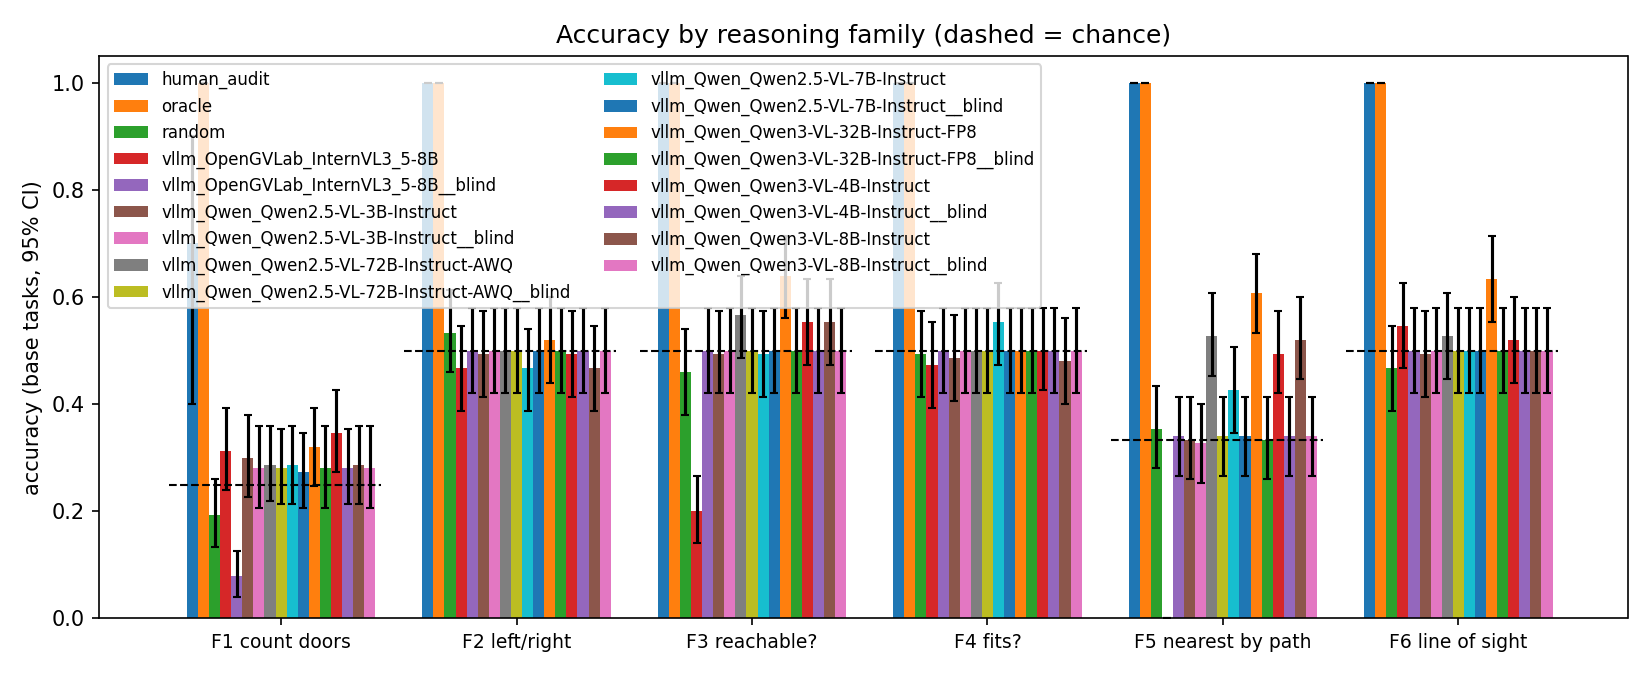
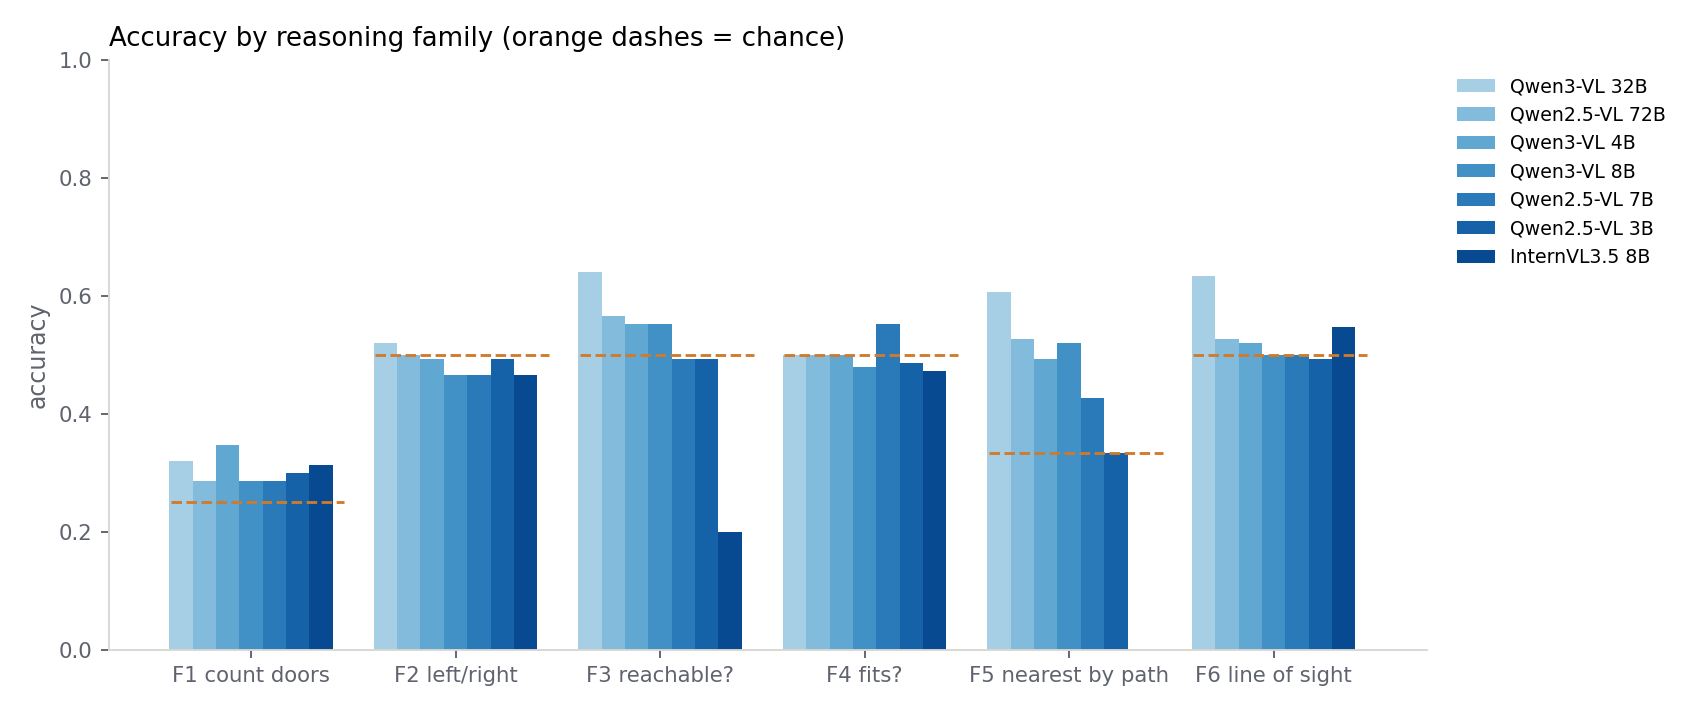
README: embed examples and charts, clickable links; cleaner figures; balanced subset option

diff --git a/navprobe/report.py b/navprobe/report.py
@@ -128,61 +128,122 @@ def chance_by_family(tasks):
             for f in FAMILY_LABEL if any(t["family"] == f for t in tasks)}
 
 
+INK, GREY, BLUE, ORANGE, TEAL, LIGHT = "#222736", "#5F636E", "#3D6DC4", "#D07A2A", "#009696", "#D9D7D1"
+
+
+def pretty(m: str) -> str:
+    """'vllm_Qwen_Qwen3-VL-32B-Instruct-FP8' -> 'Qwen3-VL 32B'"""
+    if m == "human_audit":
+        return "Human (60-task audit)"
+    if m == "random":
+        return "Random guessing"
+    n = m.replace("vllm_", "").replace("hf_", "").replace("gemini_", "")
+    n = re.sub(r"^(Qwen|OpenGVLab|google)_", "", n)
+    n = re.sub(r"-(Instruct|AWQ|FP8)", "", n).replace("_", ".")
+    n = re.sub(r"-(\d+B)$", r" \1", n)
+    return n
+
+
+def _style(ax):
+    for side in ("top", "right"):
+        ax.spines[side].set_visible(False)
+    ax.spines["left"].set_color(LIGHT)
+    ax.spines["bottom"].set_color(LIGHT)
+    ax.tick_params(colors=GREY, labelsize=9)
+    ax.title.set_color(INK)
+
+
 def make_figures(summaries, chance, fig_dir: Path):
+    """Clean figures for the README and slides: real models plus human and random; no blind/oracle rows."""
     import matplotlib
     matplotlib.use("Agg")
     import matplotlib.pyplot as plt
 
     fig_dir.mkdir(parents=True, exist_ok=True)
-    models = list(summaries)
     fams = [f for f in FAMILY_LABEL if f in chance]
-    # 1. accuracy by family
-    fig, ax = plt.subplots(figsize=(11, 4.5))
+    models = [m for m in summaries if m not in ("oracle", "random", "human_audit") and not m.endswith("__blind")]
+    models.sort(key=lambda m: -summaries[m]["accuracy"])
+
+    # 1. headline: human vs models vs random
+    rows = (["human_audit"] if "human_audit" in summaries else []) + models + ["random"]
+    fig, ax = plt.subplots(figsize=(7.5, 0.42 * len(rows) + 0.9))
+    ys = np.arange(len(rows))[::-1]
+    vals = [summaries[m]["accuracy"] for m in rows]
+    cols = [TEAL if m == "human_audit" else (LIGHT if m == "random" else BLUE) for m in rows]
+    ax.barh(ys, vals, color=cols, height=0.62)
+    for y, v in zip(ys, vals):
+        ax.text(v + 0.01, y, f"{v:.0%}", va="center", fontsize=9, color=INK)
+    ax.set_yticks(ys)
+    ax.set_yticklabels([pretty(m) for m in rows], fontsize=9, color=INK)
+    ax.set_xlim(0, 1.08)
+    ax.xaxis.set_visible(False)
+    ax.set_title("Accuracy on 1,407 verified map-reading tasks", fontsize=11, loc="left")
+    _style(ax)
+    fig.tight_layout()
+    fig.savefig(fig_dir / "accuracy_overall.png", dpi=170)
+    plt.close(fig)
+
+    # 2. accuracy by family (models only, chance marked)
+    fig, ax = plt.subplots(figsize=(10, 4.2))
     w = 0.8 / max(len(models), 1)
+    palette = plt.cm.Blues(np.linspace(0.35, 0.9, len(models)))
     for i, m in enumerate(models):
-        ys = [summaries[m]["by_family"].get(f, {}).get("acc", np.nan) for f in fams]
-        lo = [ys[j] - summaries[m]["by_family"].get(f, {}).get("ci95", (np.nan,) * 2)[0] for j, f in enumerate(fams)]
-        hi = [summaries[m]["by_family"].get(f, {}).get("ci95", (np.nan,) * 2)[1] - ys[j] for j, f in enumerate(fams)]
-        ax.bar(np.arange(len(fams)) + i * w, ys, w, yerr=[lo, hi], capsize=2, label=m)
+        ys_ = [summaries[m]["by_family"].get(f, {}).get("acc", np.nan) for f in fams]
+        ax.bar(np.arange(len(fams)) + i * w, ys_, w, label=pretty(m), color=palette[i])
     for j, f in enumerate(fams):
-        ax.hlines(chance[f], j - 0.1, j + 0.8, colors="k", linestyles="dashed", linewidth=1)
+        ax.hlines(chance[f], j - 0.05, j + 0.8, colors=ORANGE, linestyles="dashed", linewidth=1.2)
     ax.set_xticks(np.arange(len(fams)) + 0.4 - w / 2)
-    ax.set_xticklabels([FAMILY_LABEL[f] for f in fams], fontsize=9)
-    ax.set_ylim(0, 1.05)
-    ax.set_ylabel("accuracy (base tasks, 95% CI)")
-    ax.set_title("Accuracy by reasoning family (dashed = chance)")
-    ax.legend(fontsize=8, ncol=2)
+    ax.set_xticklabels([FAMILY_LABEL[f] for f in fams], fontsize=9, color=INK)
+    ax.set_ylim(0, 1.0)
+    ax.set_ylabel("accuracy", color=GREY)
+    ax.set_title("Accuracy by reasoning family (orange dashes = chance)", fontsize=11, loc="left")
+    ax.legend(fontsize=8, ncol=1, frameon=False, bbox_to_anchor=(1.01, 1), loc="upper left")
+    _style(ax)
     fig.tight_layout()
-    fig.savefig(fig_dir / "accuracy_by_family.png", dpi=150)
+    fig.savefig(fig_dir / "accuracy_by_family.png", dpi=170)
     plt.close(fig)
-    # 2. accuracy vs map size
-    fig, ax = plt.subplots(figsize=(6, 4))
-    for m in models:
+
+    # 3. accuracy vs map size
+    fig, ax = plt.subplots(figsize=(7, 3.8))
+    for i, m in enumerate(models):
         s = summaries[m]["by_size"]
-        ax.plot([int(k) for k in s], list(s.values()), marker="o", label=m)
-    ax.set_xlabel("map size (cells per side)")
-    ax.set_ylabel("accuracy")
-    ax.set_ylim(0, 1.05)
-    ax.set_title("Accuracy as maps get larger")
-    ax.legend(fontsize=8)
+        ax.plot([int(k) for k in s], list(s.values()), marker="o", label=pretty(m), color=palette[i])
+    ax.axhline(summaries["random"]["accuracy"], color=ORANGE, linestyle="dashed", linewidth=1.2)
+    ax.set_xlabel("map size (cells per side)", color=GREY)
+    ax.set_ylim(0.2, 0.8)
+    ax.set_title("Accuracy vs map size (orange = random guessing)", fontsize=11, loc="left")
+    ax.legend(fontsize=8, frameon=False, bbox_to_anchor=(1.01, 1), loc="upper left")
+    _style(ax)
     fig.tight_layout()
-    fig.savefig(fig_dir / "accuracy_by_size.png", dpi=150)
+    fig.savefig(fig_dir / "accuracy_by_size.png", dpi=170)
     plt.close(fig)
-    # 3. F5 trap
-    ms = [m for m in models if "F5_trap" in summaries[m]]
+
+    # 4. F5 traps: eyeballing vs planning
+    ms = [m for m in models if "F5_trap" in summaries[m] and summaries[m].get("accuracy_on_answered")
+          and summaries[m]["by_family"].get("F5_nearest_by_path", {}).get("acc", 0) > 0]
+    ms.sort(key=lambda m: summaries[m]["F5_trap"]["no_trap_acc"])
     if ms:
-        fig, ax = plt.subplots(figsize=(7, 4))
+        fig, ax = plt.subplots(figsize=(8, 3.9))
         x = np.arange(len(ms))
-        ax.bar(x - 0.2, [summaries[m]["F5_trap"]["no_trap_acc"] for m in ms], 0.4, label="looks-nearest = nearest")
-        ax.bar(x + 0.2, [summaries[m]["F5_trap"]["trap_acc"] for m in ms], 0.4, label="trap: looks-nearest is wrong")
-        ax.axhline(1 / 3, color="k", linestyle="dashed", linewidth=1)
+        a = [summaries[m]["F5_trap"]["no_trap_acc"] for m in ms]
+        b = [summaries[m]["F5_trap"]["trap_acc"] for m in ms]
+        ax.bar(x - 0.2, a, 0.4, label="goal that looks nearest IS nearest", color=BLUE)
+        ax.bar(x + 0.2, b, 0.4, label="trap: goal that looks nearest is NOT", color=ORANGE)
+        for xi, (va, vb) in enumerate(zip(a, b)):
+            ax.text(xi - 0.2, va + 0.015, f"{va:.0%}", ha="center", fontsize=8, color=INK)
+            ax.text(xi + 0.2, vb + 0.015, f"{vb:.0%}", ha="center", fontsize=8, color=INK)
+        ax.axhline(1 / 3, color=GREY, linestyle="dashed", linewidth=1)
+        ax.text(-0.55, 1 / 3 - 0.045, "chance", fontsize=8, color=GREY, ha="left")
         ax.set_xticks(x)
-        ax.set_xticklabels(ms, rotation=20, ha="right", fontsize=8)
-        ax.set_ylim(0, 1.05)
-        ax.set_title("F5: do models plan, or eyeball straight-line distance?")
-        ax.legend(fontsize=8)
+        ax.set_xticklabels([pretty(m) for m in ms], fontsize=9, color=INK)
+        ax.set_ylim(0, 1.0)
+        ax.yaxis.set_visible(False)
+        ax.set_title("Nearest-goal questions: models eyeball distance, they don't plan routes",
+                     fontsize=11, loc="left")
+        ax.legend(fontsize=8, frameon=False, loc="upper left")
+        _style(ax)
         fig.tight_layout()
-        fig.savefig(fig_dir / "f5_trap.png", dpi=150)
+        fig.savefig(fig_dir / "f5_trap.png", dpi=170)
         plt.close(fig)
 
 

diff --git a/navprobe/evaluate.py b/navprobe/evaluate.py
@@ -164,6 +164,22 @@ def make_agent(spec: str):
     raise SystemExit(f"unknown model spec {spec!r}")
 
 
+def balanced_subset(tasks, per_family):
+    """Deterministic subset of base tasks: per family, round-robin over (answer, trap) groups so the
+    subset keeps balanced answers and the F5 trap split. Used for rate-limited APIs (e.g. a free tier)."""
+    import itertools
+    base = sorted((t for t in tasks if not t.get("pair_role") and not t.get("twin_role")), key=lambda t: t["task_id"])
+    out = []
+    for fam in sorted({t["family"] for t in base}):
+        groups = {}
+        for t in base:
+            if t["family"] == fam:
+                groups.setdefault((t["answer"], t["evidence"].get("trap")), []).append(t)
+        rr = [t for tup in itertools.zip_longest(*groups.values()) for t in tup if t is not None]
+        out += rr[:per_family]
+    return out
+
+
 def main():
     ap = argparse.ArgumentParser(description=__doc__, formatter_class=argparse.RawDescriptionHelpFormatter)
     ap.add_argument("--tasks", default="outputs")
@@ -171,10 +187,14 @@ def main():
     ap.add_argument("--blind", action="store_true", help="send the question without the image")
     ap.add_argument("--limit", type=int, default=0, help="only the first N tasks (smoke test)")
     ap.add_argument("--base-only", action="store_true", help="skip minimal-pair partners and style twins")
+    ap.add_argument("--per-family", type=int, default=0,
+                    help="balanced subset of N base tasks per family (for rate-limited APIs)")
     a = ap.parse_args()
 
     root = Path(a.tasks)
     tasks = load_tasks(root)
+    if a.per_family:
+        tasks = balanced_subset(tasks, a.per_family)
     if a.base_only:
         tasks = [t for t in tasks if not t.get("pair_role") and not t.get("twin_role")]
     if a.limit:

diff --git a/README.md b/README.md
@@ -12,7 +12,7 @@ answer is visible in the image, and scores models against controls.
 ## Quick start (offline, no GPU, no API key)
 ```bash
 pip install -r requirements.txt
-make all          # tests -> generate 600+ tasks -> verify from pixels -> oracle/random controls -> report
+make all          # tests -> generate 1,407 tasks -> verify from pixels -> oracle/random controls -> report
 ```
 or with Docker:
 ```bash
@@ -24,14 +24,25 @@ and all 1,407 PNGs **byte-for-byte** identical to the macOS run (7 min 21 s end 
 
 ## What a task looks like
 Each task is a PNG map, a question, a fixed answer format and the exact answer, plus the evidence used.
+
+<table>
+<tr>
+<td align="center"><img src="outputs/images/F5-e0008.png" width="260"><br><sub><b>Trap question.</b> Which goal is closest by driving?<br>Answer <b>C</b> (16 steps). B looks closest but is behind closed doors (29 steps).<br>6 of 7 models answered B.</sub></td>
+<td align="center"><img src="outputs/images/F3-s0000.png" width="260"><br><sub><b>Minimal pair, part 1.</b> Can the robot reach A? <b>Yes</b>.</sub></td>
+<td align="center"><img src="outputs/images/F3-s0000P.png" width="260"><br><sub><b>Minimal pair, part 2.</b> Same map, one door closed: <b>No</b>.</sub></td>
+</tr>
+</table>
+
 ```json
-{"task_id": "F5-00412", "family": "F5_nearest_by_path", "style": "plan", "size": 28,
+{"task_id": "F5-e0008", "family": "F5_nearest_by_path", "style": "ros", "size": 14,
  "question": "Which goal is closest to the robot by DRIVING distance, not straight-line distance?",
- "answer": "B",
- "evidence": {"path_len": {"A": 41, "B": 29, "C": 37}, "straight_line_nearest": "A", "trap": true}}
+ "answer": "C",
+ "evidence": {"path_len": {"A": 23, "B": 29, "C": 16}, "straight_line_nearest": "B", "trap": true}}
 ```
 
 ## Results (1,407 tasks, exact-match scoring)
+
+<img src="outputs/results/figures/accuracy_overall.png" width="620">
 
 | Answered by | Accuracy | No image (blind) | F5: looks-nearest is nearest | F5: trap | Minimal pairs both right |
 |---|---:|---:|---:|---:|---:|
@@ -50,9 +61,11 @@ Key findings:
 - **Scale barely helps.** Qwen2.5-VL goes 43% → 45% → 48% from 3B to 72B (24x the parameters).
 - **Bigger models eyeball better but don't plan.** On nearest-goal questions, accuracy rises to 88% when the goal that looks nearest is nearest, but stays at chance (30–36%) on traps.
 - **Models ignore the evidence.** Small models score about the same with and without the image, repeat one favourite answer, and get both halves of a minimal pair right at most 21% of the time.
+<img src="outputs/results/figures/f5_trap.png" width="700">
+
 - InternVL3.5 8B often reasons at length and never reaches an answer within 2,048 tokens (scored as wrong; 47% on the questions it answered).
 
-Full numbers: `outputs/results/summary.json` · figures: `outputs/results/figures/` · failure gallery: `outputs/results/gallery/`. Limitations: [docs/LIMITATIONS.md](docs/LIMITATIONS.md).
+More: [full numbers (summary.json)](outputs/results/summary.json) · [all figures](outputs/results/figures/) · [failure gallery](outputs/results/gallery/gallery.md) · [human audit page](outputs/audit/audit.html) · [technical explanation](docs/TECHNICAL.md) · [limitations](docs/LIMITATIONS.md) · [verification report](outputs/verification_report.json)
 
 ## Six reasoning families
 | Family | Question | Reasoning tested | Why an error matters |
@@ -72,11 +85,13 @@ Full numbers: `outputs/results/summary.json` · figures: `outputs/results/figure
    goals within 30 degrees of straight ahead or behind, sight lines that graze a corner, and doorways that the robot exactly fits.
 4. **Balanced answers.** Every family's base tasks are balanced across answer choices.
 5. **Controls.** Oracle (reads the key) = 100%, random = chance, blind (text only, no image) ≈ chance.
-6. **Mutation tests.** Flipped answer keys, erased doorways, moved goals, swapped labels and flipped headings
+6. **Human audit.** A person answered 60 random tasks (10 per family) from the image alone: 95%. All three misses were
+   undercounted doorways next to wall corners; the answer key was re-checked by hand and is correct.
+7. **Mutation tests.** Flipped answer keys, erased doorways, moved goals, swapped labels and flipped headings
    are all caught (`tests/test_pipeline.py`).
 
 ## Variation, beyond rewording
-- Six families covering different kinds of reasoning, at three map sizes (20, 28, 36 cells per side).
+- Six families covering different kinds of reasoning, at four map sizes (an easy 14-cell tier, then 20, 28, 36 cells per side).
 - **Minimal pairs:** the same map with one change (one door closed, heading reversed, smaller robot) that flips the answer.
 - **Trap questions (F5):** in half the tasks, the goal that *looks* nearest is not the nearest by path.
 - **Style twins:** the same scene in two visual styles (architectural plan and ROS occupancy grid).
@@ -88,9 +103,9 @@ so runs resume after interruption and the report can be rebuilt offline.
 ## Repository layout
 ```
 navprobe/  mapgen.py  geometry.py  render.py  decode.py  families.py
-           generate.py  verify.py  evaluate.py  report.py
+           generate.py  verify.py  evaluate.py  report.py  gallery.py  audit.py
 tests/     geometry, pipeline (round-trip, determinism, mutations), scoring
 hpc/       Slurm script + instructions
 outputs/   tasks.jsonl, images/, generation_report.json, verification_report.json,
-           responses/ (cached model replies), results/ (summary, figures)
+           responses/ (cached model replies), results/ (summary, figures, gallery), audit/
 ```
